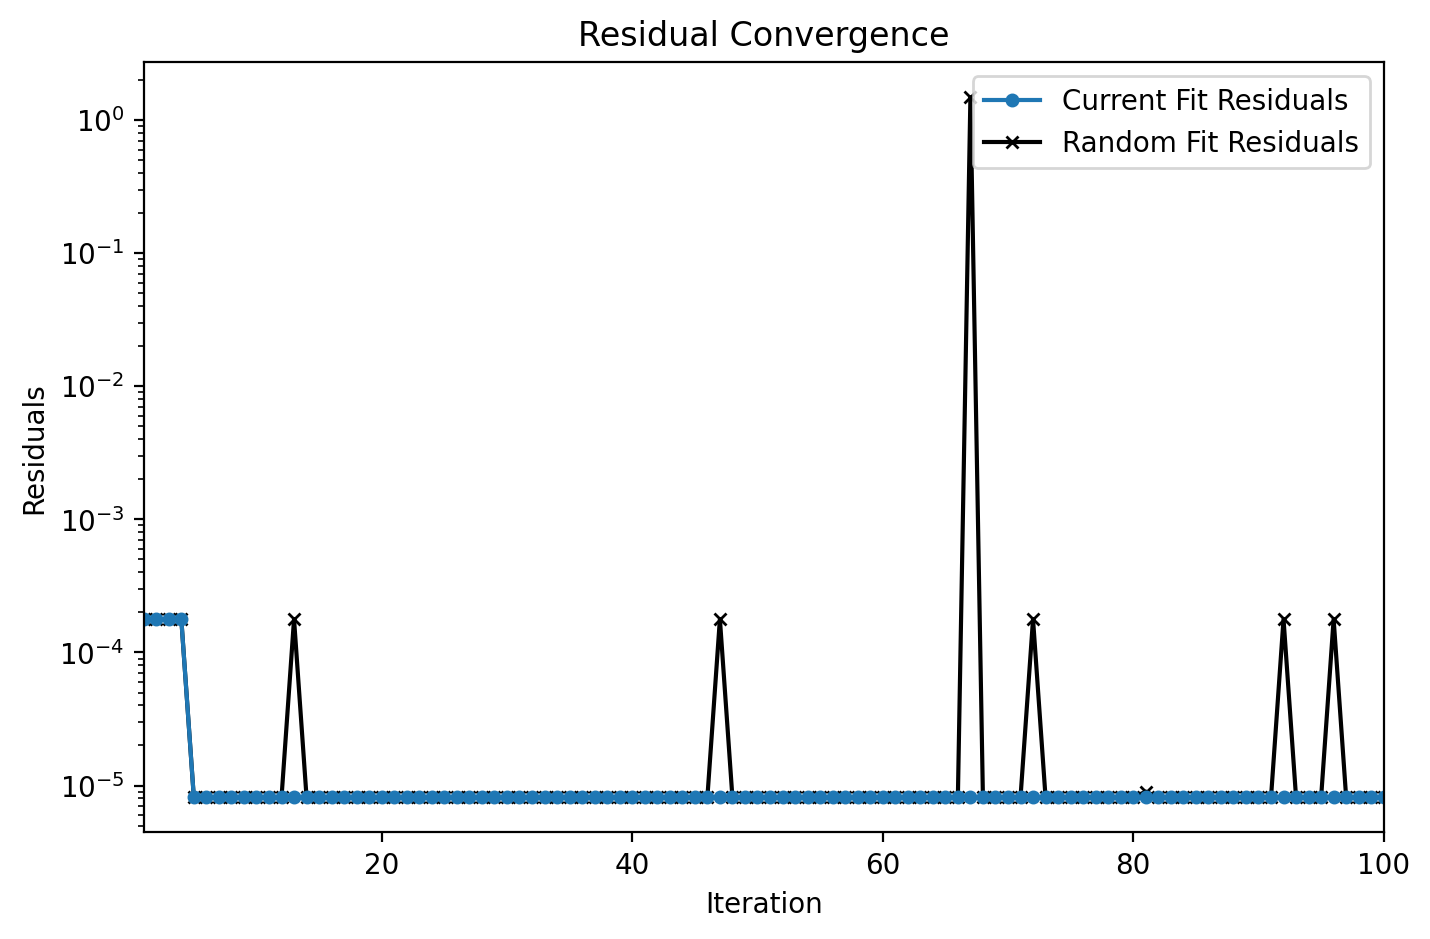
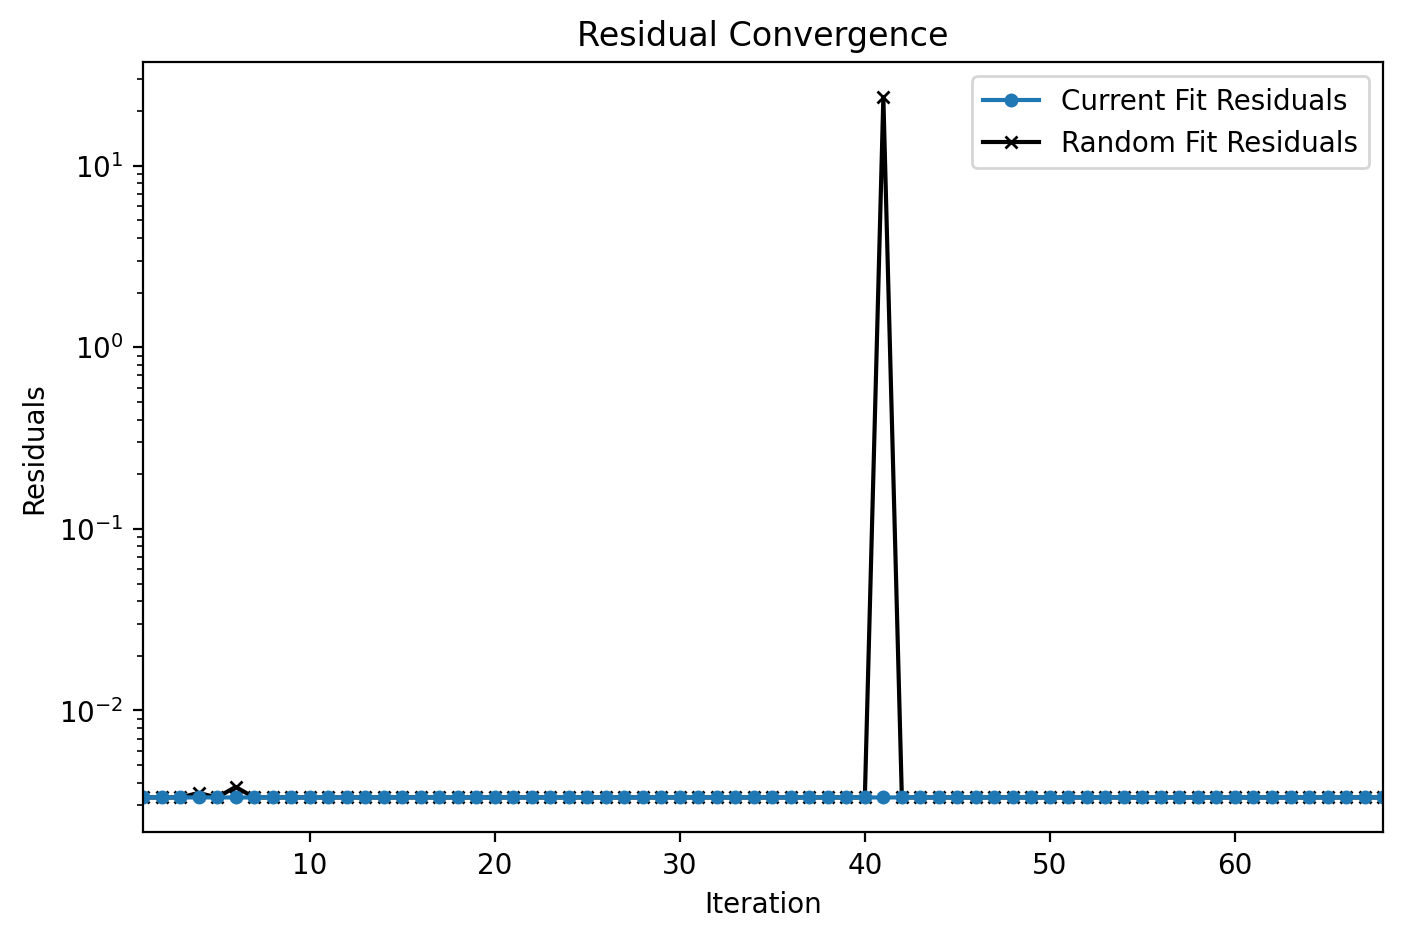
example image folder

diff --git a/orbit2.py b/orbit2.py
@@ -14,9 +14,9 @@ from scipy.optimize import least_squares
 # ----------------------------------------------------------------------
 # Configuration
 # ----------------------------------------------------------------------
-target = "Kruger 60 (DO Cephei)"
+target = "Test System"
 unit = "arcsec" 
-csv_file = "test.csv"
+csv_file = "61cyg.csv"
 
 n_starts = 100
 guess_fractional_range = 0.3

diff --git a/README.md b/README.md
@@ -16,7 +16,7 @@ General Notes:
         - Position angle (Theta): Degrees 
         - Angular Distance (RHO): Arcseconds (")
         - Decimal Observation Year
-        - Parallax Angle (first data row only): Arcseconds (")
+        - Parallax Angle (first data row only): Milliarcseconds (mas)
 - Calculates
     - Total System Mass
     - Last Periastron Passage Year
@@ -36,11 +36,12 @@ General Notes:
     - Periastron and Apastron
     - Line of Nodes
 
-<img width="1300" height="700" alt="image" src="orbit_fit.png"/>
+<img width="1300" height="700" alt="image" src="Example Images/orbit_fit.png"/>
 
-<img width="800" height="500" alt="image" src="residuals_convergence.png" />
+<img width="800" height="500" alt="image" src="Example Images/residuals_convergence.png" />
 
 - Future features
+    - Mass determination of individual components
     - Inputting radial velocity and proper motion data to contrain possible orbits
     - Inputting stellar evolution data to contrain total system mass and possible orbits
     - Position Predictions